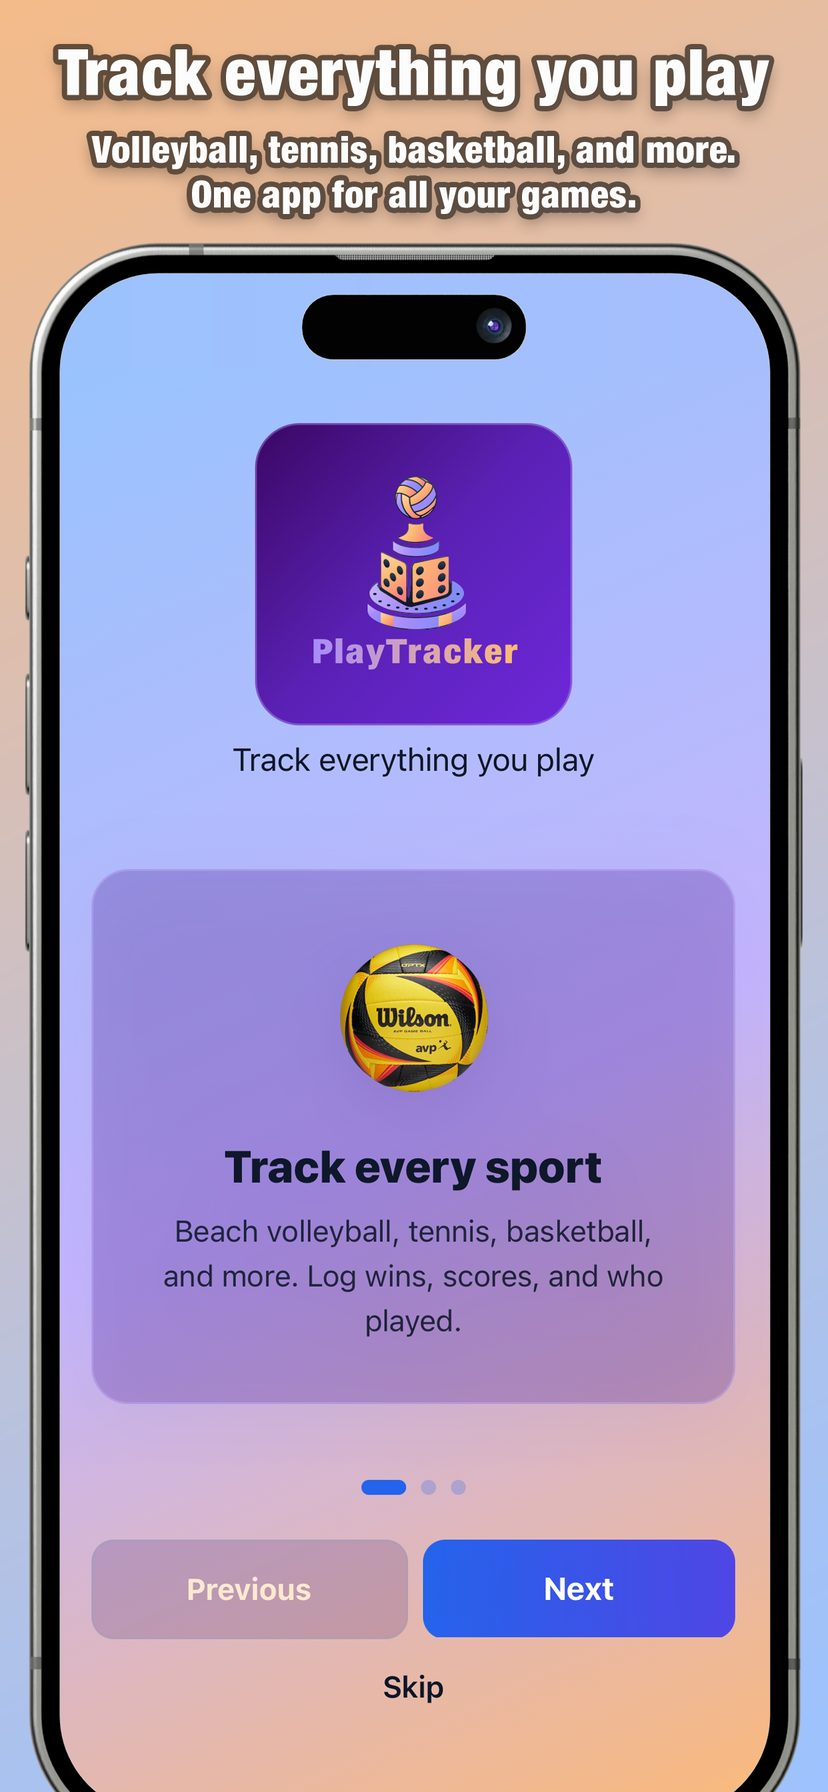
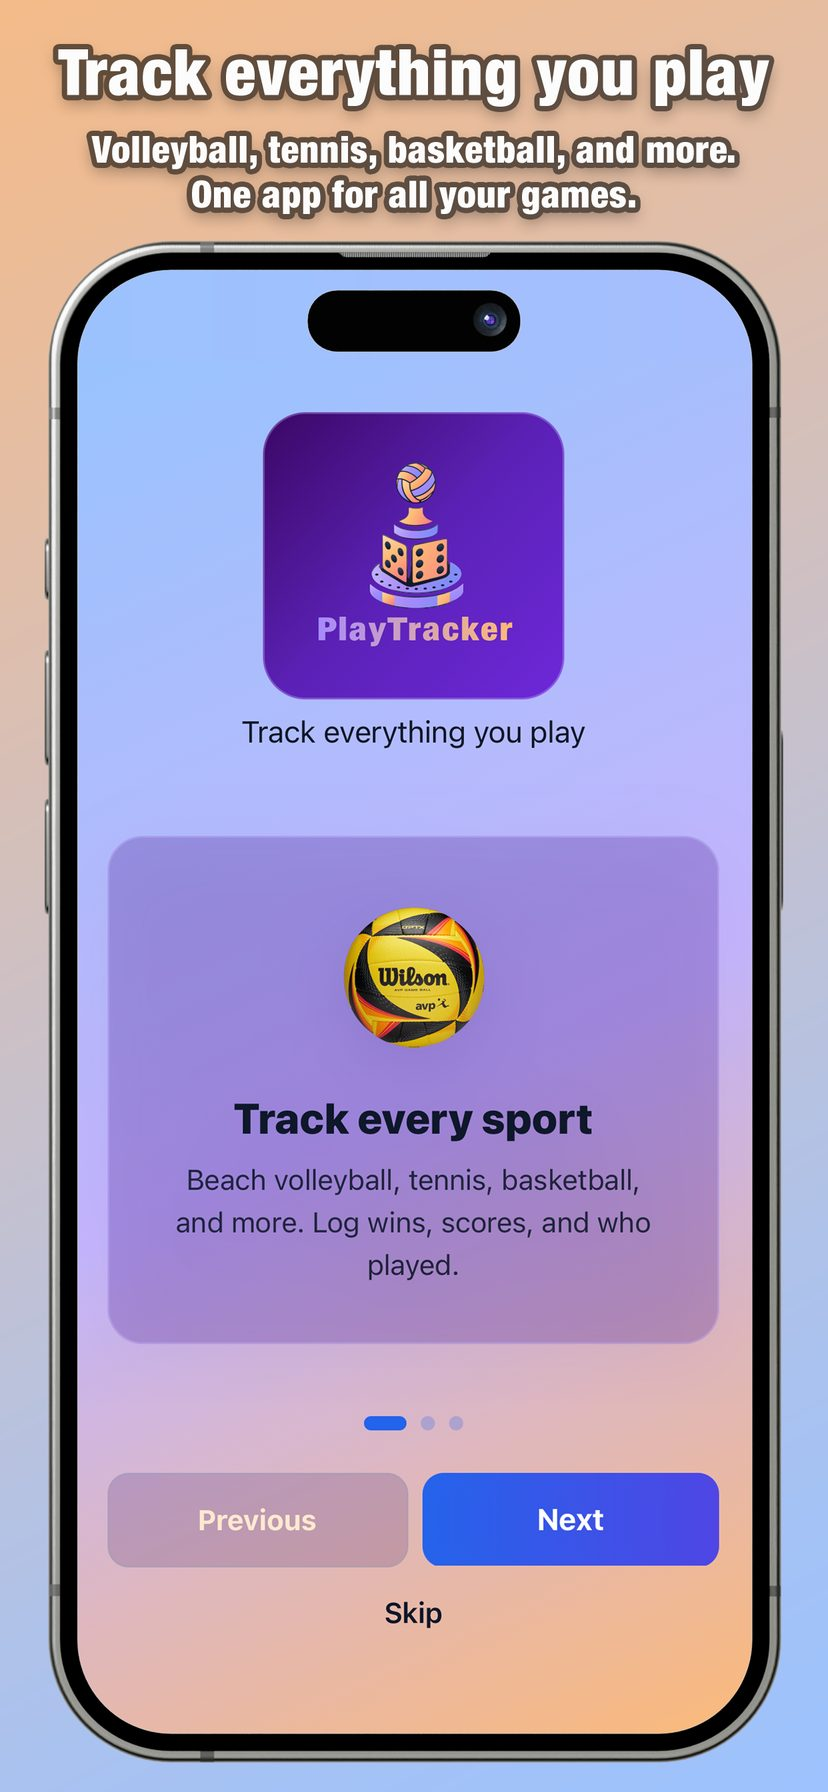
Refresh homepage screenshots and thin the lilac frames.

diff --git a/static/css/marketing.css b/static/css/marketing.css
@@ -357,13 +357,11 @@ main {
   top: 50%;
   width: min(292px, 38vw);
   margin: 0;
-  padding: 12px 12px 20px;
-  border-radius: 32px;
-  background: linear-gradient(180deg, rgba(255, 255, 255, 0.78), rgba(255, 247, 237, 0.58));
-  border: 2px solid rgba(255, 255, 255, 0.95);
-  box-shadow:
-    0 22px 48px rgba(46, 16, 101, 0.2),
-    0 0 0 1px rgba(91, 33, 182, 0.08);
+  padding: 20px;
+  border-radius: 28px;
+  background: rgba(196, 181, 253, 0.5);
+  border: 0;
+  box-shadow: 0 18px 40px rgba(46, 16, 101, 0.16);
   transform: translate(-50%, -50%)
     translateX(calc(var(--offset, 0) * 12.4rem))
     scale(calc(1 - (var(--offset, 0) * var(--offset, 0) * 0.09)))
@@ -393,7 +391,7 @@ main {
   display: block;
   width: 100%;
   height: auto;
-  border-radius: 20px;
+  border-radius: 16px;
   border: 1px solid rgba(15, 23, 42, 0.08);
   background: #e0e7ff;
 }
